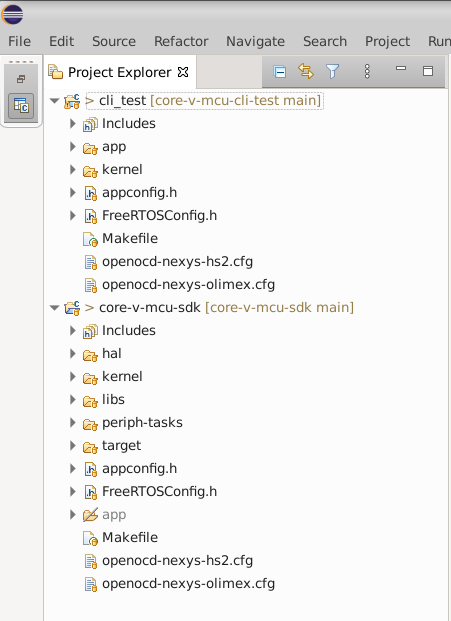
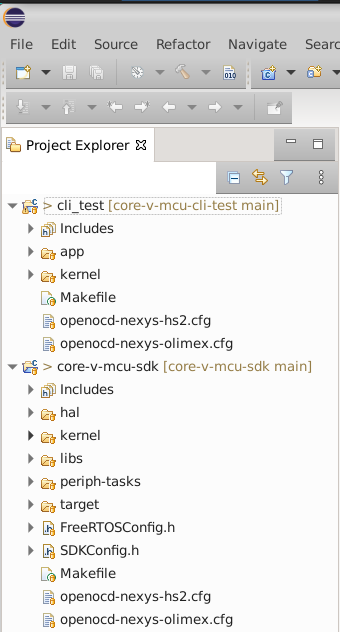
updated readme

Changed region(s): [[0.0, 0.0, 1.0, 1.0], [0.8235, 0.5507, 0.9118, 0.6119], [0.7353, 0.5507, 0.7941, 0.6119]]

diff --git a/README.md b/README.md
@@ -2,9 +2,106 @@
 Eclipse+FreeRTOS SDK for core-v-mcu
 
 ## Background
-The purpose of this repo is to hold the common files that are shared among many applications.  THe idea is that a developer will load this repo into their workspace, and then create (or load) other projects that contain the application specific code.  Those projects will use the library files that is the output of this project to access the common functions.
+The purpose of this repo is to hold the common files that are shared among many applications.  THe idea is that a developer will load this repo into their workspace, and then create (or load) other projects that contain the application specific code.  Those projects will use the library file that is the output of this project to access the common functions.
+
+## Setting up the Eclipse environment
+Eclipse relies on a larger ecosystem of tools.  This project uses a particualr set of tools in a particular set of locations.  These instructions do not cover loading the other tools, or adapting the preferences to point to different tools or different locations.  These instructions assume that you are familar enough with Eclispe to make any required changes.
+### Step 1: 
+Download and install Eclipse for Embedded and not Host based eclipse.  
+~~~
+https://www.eclipse.org/downloads/packages/release/2021-03/m1
+~~~
+
+Be sure to load the Eclipse IDE for Embedded C/C++ Devlopers
+![EmbeddedEclipse](./images/EmbeddedEclipse.png)
+
+### Step 2:
+Install OpenOCD.  Recommend getting it from this location:
+~~~
+https://sourceforge.net/projects/openocd/files/openocd/
+~~~
+I used 0.11.0-rc2.
+Installation is accomplished by:
+~~~
+./configure && make
+sudo make install
+~~~
+
+### Step 3: run Eclipse and import the core-v-mcu-sdk project directly from git (import the cli-test project in step 4)
+~~~
+eclipse
+~~~
+NOTE: importing the uart_test does not imprt the information to launch the debugger, so after importing uart_test, be sure to either import the launch configuration or create you own.
+- create and launch a new workspace then select import existing projects
+
+![step1](./images/1-Select-window.png)
+- select clone URL
+
+![step2](./images/2-SelectRepoSource.png)
+- paste repo name into URL field
+
+![step3](./images/3-SourceGitRepo.png)
+
+- specify folder to put files in (default is git/reponame)
+
+![step4](./images/4-LocalDestination.png)
+
+- select the branch to use
+
+![step5](./images/5-BranchSelection.png)
+
+- select the import wizard (default works fine)
+
+![step6](./images/6-SelectWizard.png)
+
+- tell it to actually import form the repo
+
+![step7](./images/7-ImportProjects.png)
+
+- this is what it looks like when the import has finished
+
+![step8](./images/8-core-v-mcu-sdk-project.png)
+
+- at this point you should execute 'Build project...' on the core-v-mcu-sdk project
+
+### Step 4: next, import the core-v-mcu-cli-test project directly from git (import the launch configurations in step 5)
+
+Repeat the procedure from Step 3, substituing QuickLogic-Corp/core-v-mcu-cli-test.git as the repo name.
 
 A example workspace after loading both the SDK and the core-v-mcu-cli-test application is:
+![FileStructure](./images/FileStructure.png)
+
+At this point you should execute 'Build project...' on the core-v-mcu-cli-test project
+
+### Step 5: Import launch configuration
+This step pulls in the launch configurations which are configured to use hs2 and OpenOCD.
+If your hardware setup is different, you can either ignore this step and create your own, or use this step and modify to fit your configuration.
+
+- select import launch configurations
+
+![step5.1](./images/ImportLaunch-1.png)
+
+- specify the directory where the files were imported (default is git/reponame)
+
+![step5.2](./images/ImportLaunch-2-Directory.png)
+
+- select which launch configurations to import
+
+![step5.3](./images/ImportLaunch-3-Configs.png)
+
+- under debug>Debug configurations ... choose GDB OpenOCD>config a click Debug
+
+![step5.4](./images/ImportLaunch-4-Debug.png)
+
+This should compile, link and load the application and stop at main waiting for you to start debugging.
+
+When you run the progam it will write various messsage to the console (/dev/ttyUSBXX) ending with a CLI prompt '>'.
+Enter 'help' and you should see a help message.
+
+# Directory structure
+
+After loading both the SDK and cli-test the folder structure is:
+
 ![FileStructure](./images/FileStructure.png)
 
 The cli-test project has the following items:
@@ -13,6 +110,18 @@ The cli-test project has the following items:
 | ----------        | ------- |
 | Includes          | application specific include files |
 | app               | application specific source files  |
-| kernel            | the FreeRTOS kernel                   |
-| appconfig.h       | global defines that configure the app |
-| FreeRTOSConfig.h  | defines that configure FreeRTOS for this application |
+| kernel            | portASM.S from the FreeRTOS kernel                   |
+
+The core-v-mcu project has the following items:
+
+| Folder/File       | Purpose |
+| ----------        | ------- |
+| Includes          | application specific include files                        |
+| hal               | includes and sources that directly access the hardware    |
+| kernel            | the FreeRTOS kernel (except portASM.S)                    |
+| libs              | various application libraries                             |
+| drivers           | includes and sources for drivers (needs to be created)    |
+| periph-tasks      | tasks assoctiated with accessing peripherals (to be replaced by drivers)  |
+| target            | various information about the core-v-mcu core such as memory map and peripheral counts                         |
+| FreeRTOSConfig.h  | defines the characteristics of the FreeRTOS (this is actually application specific -- unfortunately I don't see how to include it in the application project) |
+| SDKConfig.h       | global defines that configure the SDK (also need to find a way to push into application project) |
